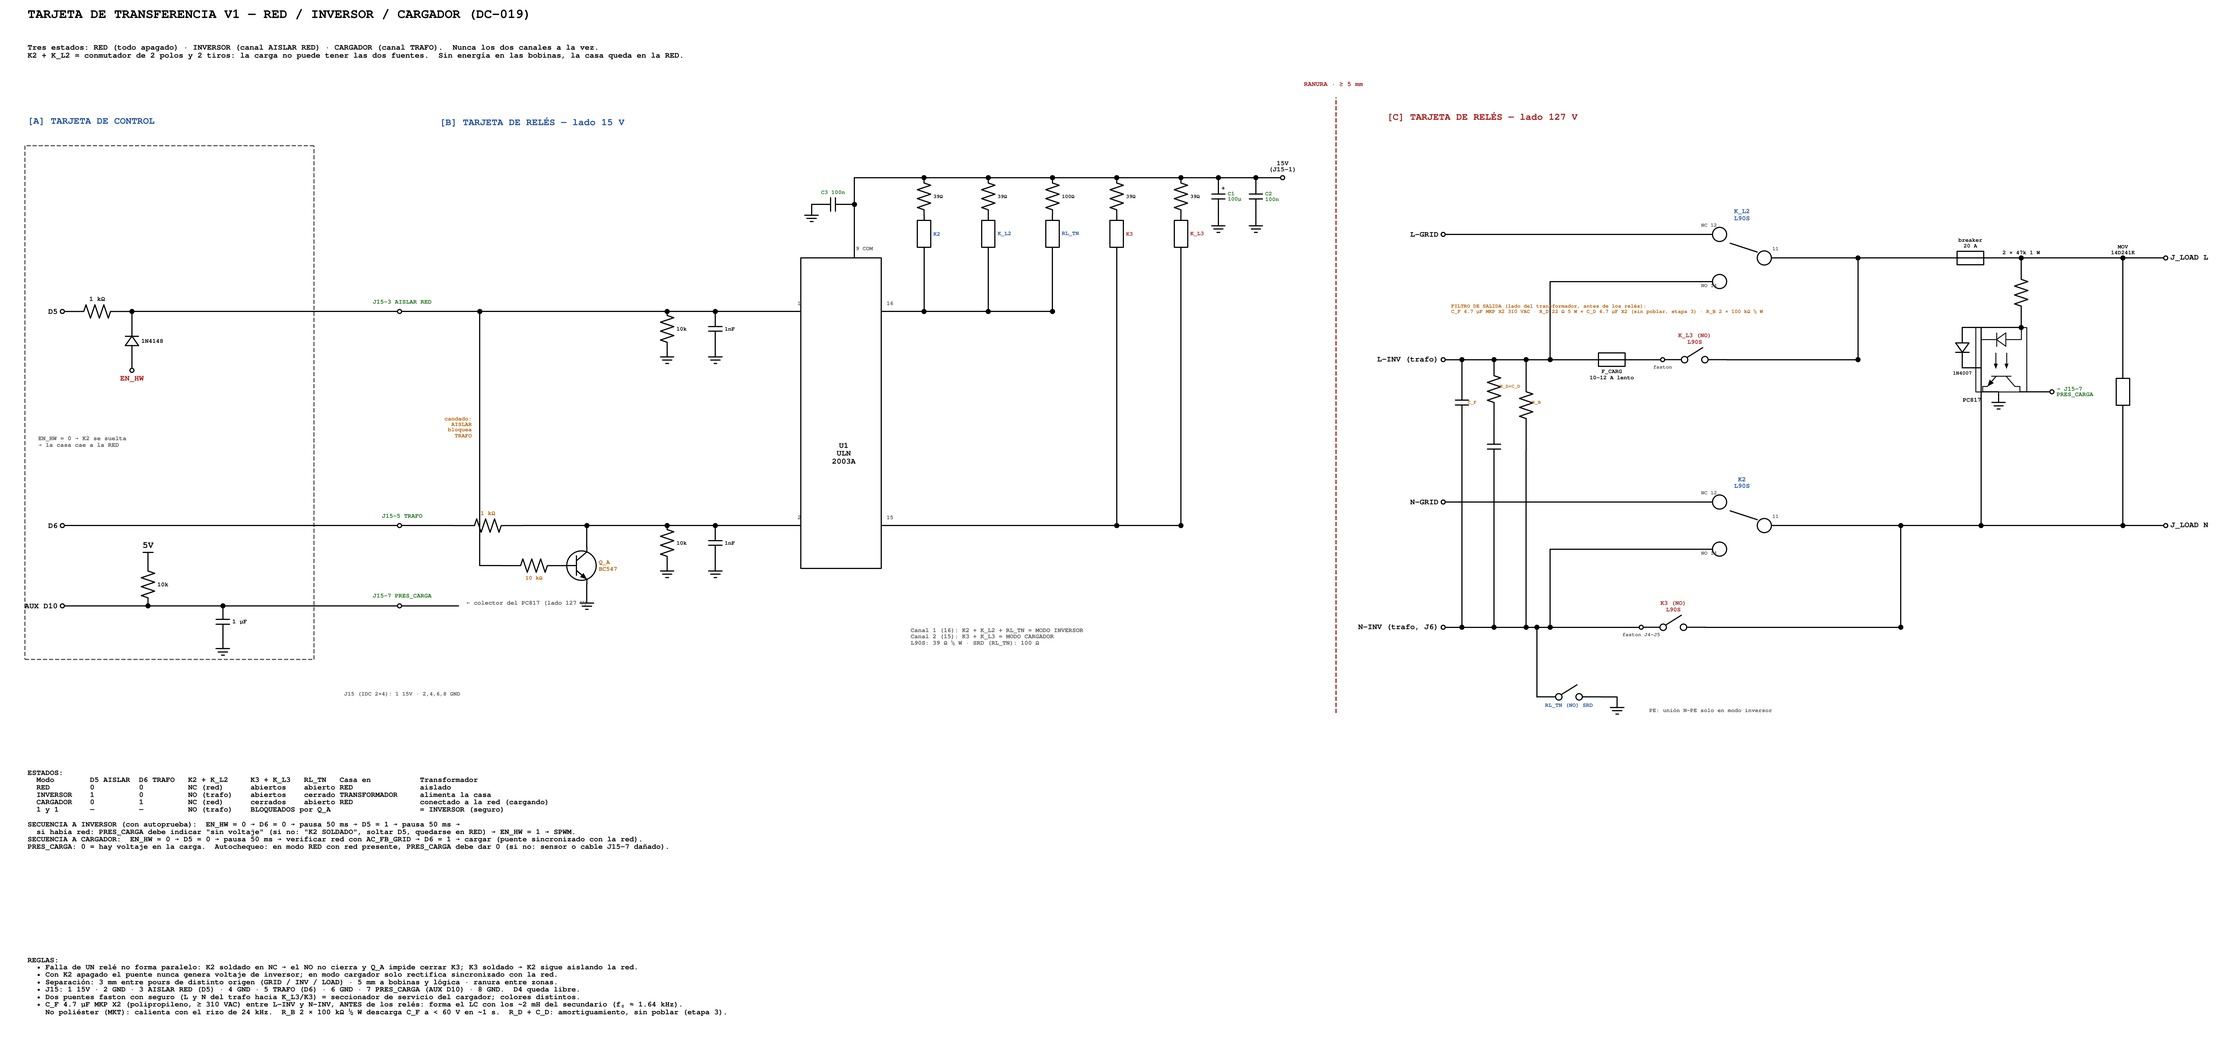
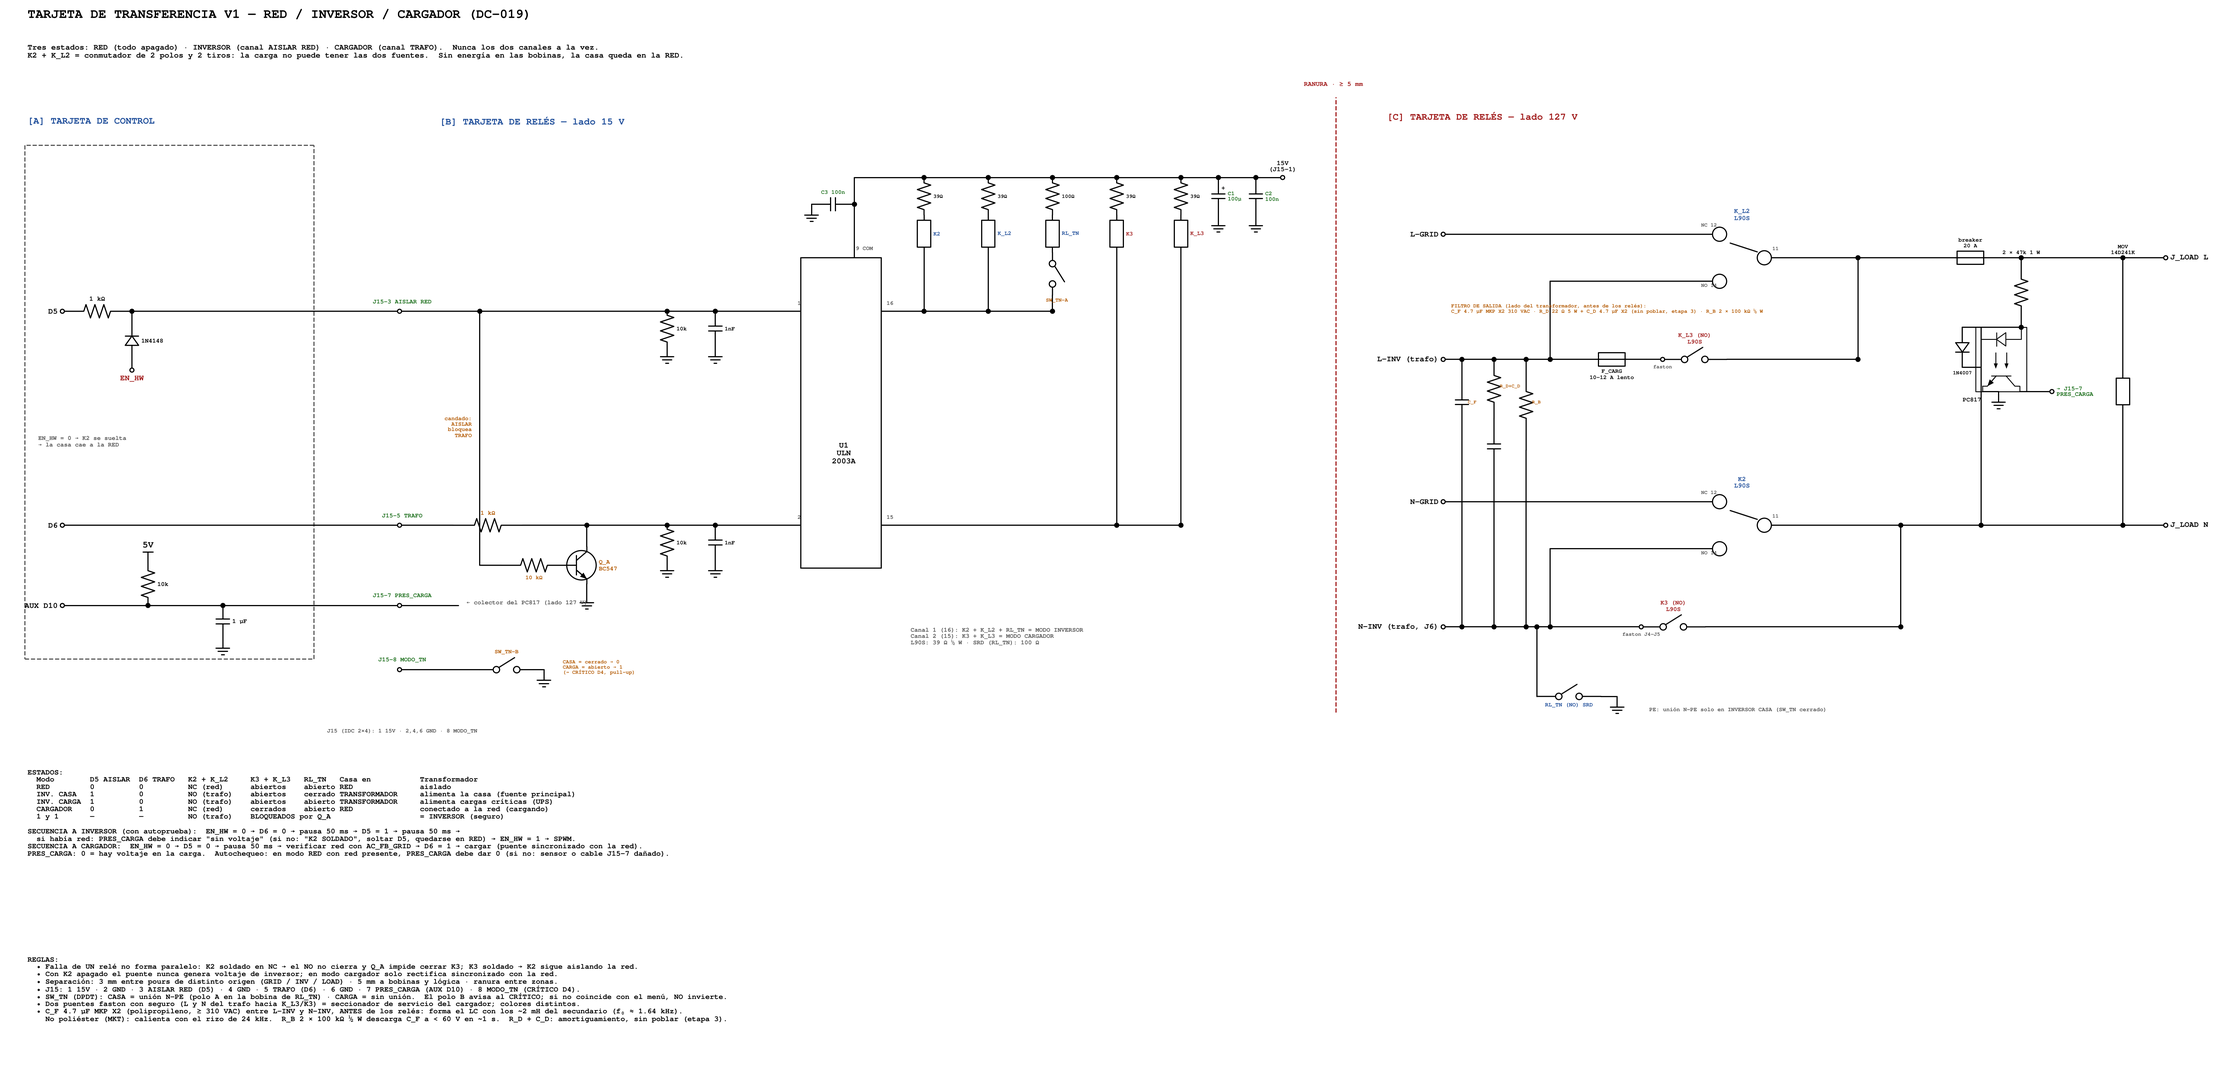
DC-019: modos INVERSOR CASA (con unión N–PE) e INVERSOR CARGA (UPS, sin unión)
- Punto 10: selector SW_TN DPDT (polo A en la bobina de RL_TN, polo B
  MODO_TN por J15-8 al CRÍTICO D4), verificación contra el menú del SETUP,
  valor de fábrica CARGA, requisitos de instalación de cada modo.
- J15-8 pasa de GND a MODO_TN; tabla de estados, falla de RL_TN y regla
  de firmware de coincidencia.
- Diagrama de transferencia con SW_TN-A/B y J15-8.
- Estudio FX, sección 8.1 y tabla comparativa alineadas.

Claude-Session: https://claude.ai/code/session_01QeVmKMzSdVA89kmdzuChhd

diff --git a/docs/img/esquematico_transferencia_v1_dc019.py b/docs/img/esquematico_transferencia_v1_dc019.py
@@ -46,7 +46,15 @@ def build(out, dpi):
         for y, t in [(16.0, 'J15-3 AISLAR RED'), (8.0, 'J15-5 TRAFO'), (5.0, 'J15-7 PRES_CARGA')]:
             d += elm.Dot(open=True).at((2.0, y))
             d += elm.Label().at((2.0, y + 0.35)).label(t, fontsize=FP - 1, color=GREEN, valign='bottom')
-        d += elm.Label().at((2.0, 1.8)).label('J15 (IDC 2×4): 1 15V · 2,4,6,8 GND', fontsize=FP - 2, color=GRAY)
+        d += elm.Label().at((2.0, 0.4)).label('J15 (IDC 2×4): 1 15V · 2,4,6 GND · 8 MODO_TN', fontsize=FP - 2, color=GRAY)
+        # MODO_TN sense: SW_TN pole B
+        d += elm.Dot(open=True).at((2.0, 2.6))
+        d += elm.Label().at((2.0, 2.95)).label('J15-8 MODO_TN', fontsize=FP - 1, color=GREEN, valign='bottom')
+        d += elm.Line().at((2.0, 2.6)).tox(5.0)
+        d += elm.Switch().right(2.0).label('SW_TN-B', loc='top', fontsize=FP - 2, color=ORG)
+        d += elm.Line().right(0.4)
+        d += elm.Ground()
+        d += elm.Label().at((8.0, 2.6)).label('CASA = cerrado → 0\nCARGA = abierto → 1\n(→ CRÍTICO D4, pull-up)', loc='right', fontsize=FP - 3, halign='left', color=ORG)
 
         # ================= RELAY BOARD LOGIC =================
         d += elm.Label().at((3.4, 23.0)).label('[B] TARJETA DE RELÉS — lado 15 V', loc='right', fontsize=22, halign='left', color=BLUE)
@@ -115,6 +123,8 @@ def build(out, dpi):
             d += elm.Dot().at((x, RAIL))
             d += elm.Resistor().at((x, RAIL)).down(1.4).label(r, loc='bottom', fontsize=FP - 3)
             d += elm.RBox(w=0.7, h=0.45).down(1.4).label(name, loc='bottom', fontsize=FP - 2, color=BLUE if yb == 16.0 else RED)
+            if name == 'RL_TN':
+                d += elm.Switch().down(1.6).label('SW_TN-A', loc='left', fontsize=FP - 3, color=ORG)
             d += elm.Line().toy(yb)
             d += elm.Dot().at((x, yb))
         d += elm.Label().at((21.0, 3.6)).label('Canal 1 (16): K2 + K_L2 + RL_TN = MODO INVERSOR\nCanal 2 (15): K3 + K_L3 = MODO CARGADOR\nL90S: 39 Ω ½ W · SRD (RL_TN): 100 Ω',
@@ -225,7 +235,7 @@ def build(out, dpi):
         d += elm.Switch().right(2.4).label('RL_TN (NO) SRD', loc='bottom', fontsize=FP - 2, color=BLUE)
         d += elm.Line().right(0.6)
         d += elm.Ground()
-        d += elm.Label().at((X0 + 7.6, 1.0)).label('PE: unión N–PE solo en modo inversor', loc='right', fontsize=FP - 2, halign='left', color=GRAY)
+        d += elm.Label().at((X0 + 7.6, 1.0)).label('PE: unión N–PE solo en INVERSOR CASA (SW_TN cerrado)', loc='right', fontsize=FP - 2, halign='left', color=GRAY)
 
         # ================= TABLE / NOTES =================
         TY = -1.2
@@ -233,7 +243,8 @@ def build(out, dpi):
             'ESTADOS:\n'
             '  Modo        D5 AISLAR  D6 TRAFO   K2 + K_L2     K3 + K_L3   RL_TN   Casa en           Transformador\n'
             '  RED         0          0          NC (red)      abiertos    abierto RED               aislado\n'
-            '  INVERSOR    1          0          NO (trafo)    abiertos    cerrado TRANSFORMADOR     alimenta la casa\n'
+            '  INV. CASA   1          0          NO (trafo)    abiertos    cerrado TRANSFORMADOR     alimenta la casa (fuente principal)\n'
+            '  INV. CARGA  1          0          NO (trafo)    abiertos    abierto TRANSFORMADOR     alimenta cargas críticas (UPS)\n'
             '  CARGADOR    0          1          NC (red)      cerrados    abierto RED               conectado a la red (cargando)\n'
             '  1 y 1       —          —          NO (trafo)    BLOQUEADOS por Q_A                    = INVERSOR (seguro)\n'
             '\n'
@@ -247,7 +258,8 @@ def build(out, dpi):
             '  • Falla de UN relé no forma paralelo: K2 soldado en NC → el NO no cierra y Q_A impide cerrar K3; K3 soldado → K2 sigue aislando la red.\n'
             '  • Con K2 apagado el puente nunca genera voltaje de inversor; en modo cargador solo rectifica sincronizado con la red.\n'
             '  • Separación: 3 mm entre pours de distinto origen (GRID / INV / LOAD) · 5 mm a bobinas y lógica · ranura entre zonas.\n'
-            '  • J15: 1 15V · 2 GND · 3 AISLAR RED (D5) · 4 GND · 5 TRAFO (D6) · 6 GND · 7 PRES_CARGA (AUX D10) · 8 GND.  D4 queda libre.\n'
+            '  • J15: 1 15V · 2 GND · 3 AISLAR RED (D5) · 4 GND · 5 TRAFO (D6) · 6 GND · 7 PRES_CARGA (AUX D10) · 8 MODO_TN (CRÍTICO D4).\n'
+            '  • SW_TN (DPDT): CASA = unión N–PE (polo A en la bobina de RL_TN) · CARGA = sin unión.  El polo B avisa al CRÍTICO; si no coincide con el menú, NO invierte.\n'
             '  • Dos puentes faston con seguro (L y N del trafo hacia K_L3/K3) = seccionador de servicio del cargador; colores distintos.\n'
             '  • C_F 4.7 µF MKP X2 (polipropileno, ≥ 310 VAC) entre L-INV y N-INV, ANTES de los relés: forma el LC con los ~2 mH del secundario (f₀ ≈ 1.64 kHz).\n'
             '    No poliéster (MKT): calienta con el rizo de 24 kHz.  R_B 2 × 100 kΩ ½ W descarga C_F a < 60 V en ~1 s.  R_D + C_D: amortiguamiento, sin poblar (etapa 3).',

diff --git a/docs/decisiones_criticas.md b/docs/decisiones_criticas.md
@@ -1002,7 +1002,8 @@ Los relés de transferencia van en **su propia tarjeta**: los 127 V quedan fuera
 | Modo | AISLAR | TRAFO | Casa en | Transformador |
 | --- | --- | --- | --- | --- |
 | **Red** (Nano apagado, en reset, cable suelto) | 0 | 0 | Red | Aislado |
-| **Inversor** | 1 | 0 | Transformador (N unido a PE por RL_TN) | Alimenta la casa |
+| **Inversor CASA** (fuente principal) | 1 | 0 | Transformador, **N unido a PE** por RL_TN | Alimenta la casa |
+| **Inversor CARGA** (UPS de cargas críticas) | 1 | 0 | Transformador, **sin unión N–PE** (RL_TN bloqueado por SW_TN) | Alimenta las cargas críticas |
 | **Cargador** | 0 | 1 | Red | Conectado a la red (a través del nodo de la carga) |
 
 4. **Candado por hardware (un BC547, Q_A):** la orden AISLAR jala a 0 V la entrada del canal TRAFO (base con 10 kΩ desde la orden cruda; 1 kΩ en serie en el canal TRAFO). Si llegan las dos órdenes, solo queda AISLAR = inversor.
@@ -1015,7 +1016,30 @@ Los relés de transferencia van en **su propia tarjeta**: los 127 V quedan fuera
    - **R_B 2 × 100 kΩ ½ W en paralelo:** descarga C_F a menos de 60 V en ~1 s (τ = 200 kΩ × 4.7 µF ≈ 0.94 s) después de apagar; disipa ~0.08 W.
    - **R_D 22 Ω 5 W + C_D 4.7 µF X2, sin poblar:** red de amortiguamiento para la etapa 3 (pico de los armónicos 27° y 29°).
    - En modo cargador, C_F queda conectado a la red por K3/K_L3: ~0.22 A reactivos a 127 V / 60 Hz, sin problema para los relés.
-9. **J15:** 1 15V · 2 GND · 3 AISLAR RED (D5) · 4 GND · 5 TRAFO (D6) · 6 GND · 7 PRES_CARGA (AUX D10) · 8 GND. **D4 queda libre.** C1 100 µF + C2 100 nF en la entrada de 15 V; C3 100 nF en COM; 10 kΩ y 1 nF en cada entrada del ULN2003.
+9. **J15:** 1 15V · 2 GND · 3 AISLAR RED (D5) · 4 GND · 5 TRAFO (D6) · 6 GND · 7 PRES_CARGA (AUX D10) · 8 **MODO_TN (CRÍTICO D4)**. C1 100 µF + C2 100 nF en la entrada de 15 V; C3 100 nF en COM; 10 kΩ y 1 nF en cada entrada del ULN2003.
+
+10. **Dos modos de inversor: CASA (con unión N–PE) y CARGA (sin unión N–PE).** Se eligen en el SETUP por menú **y** con un selector físico; los dos tienen que coincidir.
+
+| Modo (menú del SETUP) | Uso | Unión N–PE al invertir | SW_TN | Prioridad de energía |
+| --- | --- | --- | --- | --- |
+| **INVERSOR CASA** | **Fuente principal** de la casa o del sitio aislado; alimenta un tablero de cargas | **Sí.** RL_TN une N–PE (sistema derivado separadamente, NOM 250-30) | **CASA** (cerrado) | Inversor y batería primero; la red o la planta como respaldo y para cargar |
+| **INVERSOR CARGA** | **UPS de cargas críticas**, derivado de un circuito de la red | **No.** La salida queda flotante respecto a PE; la tierra de los equipos pasa directa (PE IN = PE OUT) | **CARGA** (abierto) | Red primero; el inversor solo entra cuando la red falla |
+
+   - **SW_TN:** selector deslizable **DPDT** en la tarjeta de relés, lado 15 V (no toca 127 V).
+     - **Polo A:** en serie con la bobina de RL_TN. En CARGA, RL_TN no puede cerrar aunque el canal AISLAR esté activo.
+     - **Polo B:** lleva **MODO_TN** por J15-8 al **CRÍTICO D4** (pull-up de 10 kΩ y 1 nF): CASA = 0, CARGA = 1.
+   - **Regla de coincidencia:** el CRÍTICO compara MODO_TN con el modo del menú (que le pasa el AUX por I2C) **antes de cada arranque del inversor**. Si no coinciden, **no invierte**, se queda en la red y muestra "CONFIG N–PE NO COINCIDE". Un cable J15 suelto lee 1 (CARGA): si el menú dice CASA, también bloquea.
+   - **El software no puede cambiar la unión:** solo la verifica. Cambiar de modo exige mover el selector físico **y** confirmar dos veces en el menú, con el inversor en espera; el cambio queda en el registro de eventos.
+   - **Valor de fábrica:** menú en **INVERSOR CARGA**, SW_TN en **CARGA**; también es el modo al que vuelve el menú si la EEPROM falla (CRC).
+   - **Requisitos de instalación del modo CARGA:**
+     - solo para cargas conectadas **aguas abajo del equipo** (contactos o circuitos dedicados), **nunca un tablero con su propia unión N–PE**;
+     - la PE de los equipos debe llegar desde la PE de la casa (borne PE IN);
+     - es la práctica de los UPS enchufables: verificar contra IEC 62040-1 / UL 1778 antes de certificar;
+     - con la salida flotante, una primera falla a chasis **no dispara** ninguna protección y no se detecta hasta tener el monitor de aislamiento de la V2 (DC-015).
+   - **Requisitos de instalación del modo CASA:**
+     - electrodo de puesta a tierra (250-50 / 250-52) en sitio aislado;
+     - **ninguna otra unión N–PE aguas abajo** (tableros, planta).
+     - Con red conectada no se forma doble unión: K2 abre el neutro de la red antes de que RL_TN cierre, y en modo RED la unión es solo la de la acometida.
 
 **Análisis de falla de un solo relé**
 
@@ -1025,6 +1049,7 @@ Los relés de transferencia van en **su propia tarjeta**: los 127 V quedan fuera
 | K2 soldado en NO | La casa queda en el transformador; la red no entra. Sin paralelo |
 | K3 soldado cerrado | En inversor, K2 sigue aislando la red. En modo red, el transformador queda en la red con el puente apagado: el pico del secundario (~180 V / 4.16 ≈ 43 V) es menor que la batería, los diodos del puente no conducen |
 | Bobinas sin energía (Nano, cable, 15 V) | Todo a la red |
+| RL_TN no cierra (bobina, contacto o SW_TN) en modo CASA | Salida sin unión N–PE (queda como en modo CARGA): una falla a chasis no dispara. Se detectará con el monitor de aislamiento de la V2 (DC-015); mientras tanto, prueba de continuidad N–PE en el arranque del sitio |
 
 **Reglas de firmware (obligatorias)**
 
@@ -1032,6 +1057,7 @@ Los relés de transferencia van en **su propia tarjeta**: los 127 V quedan fuera
 - **A cargador:** EN_HW = 0 → AISLAR = 0 → pausa 50 ms → verificar red con AC_FB_GRID → TRAFO = 1 → el puente solo rectifica, sincronizado con la red.
 - **Con AISLAR = 0, el puente nunca genera voltaje de inversor.**
 - **Si el inversor se detiene, se sueltan los dos canales** (además del diodo de EN_HW).
+- **Antes de cada arranque del inversor:** MODO_TN (D4) debe coincidir con el modo del menú (CASA = 0, CARGA = 1); si no, no invertir y alarma "CONFIG N–PE NO COINCIDE".
 - **Autochequeo del sensor:** en modo red con red presente, PRES_CARGA debe indicar voltaje; si no, sensor o cable J15-7 dañado.
 
 **Reglas de PCB**
@@ -1051,7 +1077,7 @@ Los relés de transferencia van en **su propia tarjeta**: los 127 V quedan fuera
 - ⚠ No es un inversor de inyección: no aplica IEC 62109-2 / VDE 0126 tal cual. La instalación en una casa debe cumplir la **NOM-001-SEDE** y la revisa un electricista o una unidad de verificación.
 - **Reemplaza** la asignación anterior de J15 (K1_D4_L1, K2_D5_N, K3_D6_TN).
 
-**Anexo: referencia industrial (OutBack FX, 2026-11-09).** Se midió en banco la tarjeta de AC de un OutBack FX de 120 V: **neutro común** (IN = OUT = XFMR NEU, ningún relé lo abre), **tierra de chasis pasante** (2 bornes PE) y **sin unión N–PE interna**: la unión la decide y la hace el instalador, una sola vez (NOM-001-SEDE-2012 250-24 / 250-30). Como el FX no conmuta el neutro, no es un sistema derivado separadamente y no necesita RL_TN. La V1 sí conmuta el neutro (K2), así que en modo inversor **sí** es sistema derivado separadamente y RL_TN se queda. El FX también valida C_F ≈ 5 µF en el transformador (C1 505J 400 V). Estudio completo, fotos, mediciones y guía de los 4 casos de instalación: [`referencia_outback_fx.md`](referencia_outback_fx.md). **No cambia la V1**; es la base de la versión de bajo costo (relé 3PDT con clasificación HP, neutro sólido, puente J_TN).
+**Anexo: referencia industrial (OutBack FX, 2026-11-09).** Se midió en banco la tarjeta de AC de un OutBack FX de 120 V: **neutro común** (IN = OUT = XFMR NEU, ningún relé lo abre), **tierra de chasis pasante** (2 bornes PE) y **sin unión N–PE interna**: la unión la decide y la hace el instalador, una sola vez (NOM-001-SEDE-2012 250-24 / 250-30). Como el FX no conmuta el neutro, no es un sistema derivado separadamente y no necesita RL_TN. La V1 sí conmuta el neutro (K2), así que en modo inversor **sí** es sistema derivado separadamente: en **INVERSOR CASA** RL_TN hace la unión; en **INVERSOR CARGA** (UPS de cargas críticas) SW_TN la bloquea (punto 10). El FX también valida C_F ≈ 5 µF en el transformador (C1 505J 400 V). Estudio completo, fotos, mediciones y guía de los 4 casos de instalación: [`referencia_outback_fx.md`](referencia_outback_fx.md). **No cambia la V1**; es la base de la versión de bajo costo (relé 3PDT con clasificación HP, neutro sólido, puente J_TN).
 
 **Referencias:** [22], [23], [24], [25].
 

diff --git a/docs/referencia_outback_fx.md b/docs/referencia_outback_fx.md
@@ -138,16 +138,16 @@ La NOM-001-SEDE-2012 [R2] (misma numeración que el NEC):
 | --- | --- | --- |
 | Relés de potencia | 1 (3PDT, polos en paralelo, por confirmar) | 5 (K2, K_L2, K3, K_L3, RL_TN) |
 | Neutro | Común, nunca se abre | Conmutado (K2/K3) |
-| Unión N–PE | Manual, la hace el instalador | **Automática** (RL_TN, solo en modo inversor) |
+| Unión N–PE | Manual, la hace el instalador, sin verificación | **Según el modo:** INVERSOR CASA = RL_TN une · INVERSOR CARGA = sin unión; selector SW_TN verificado contra el menú |
 | Estado sin energía | ❓ Salida del lado del inversor (por medir, M7) | **Carga en la RED** (fail-safe) |
 | Transformador | Siempre en la salida | Lo conecta K3/K_L3 solo para cargar |
 | Si se pega un relé | La red queda unida al inversor: el firmware debe detectarlo (anti-isla) | Ninguna falla de un solo relé forma paralelo red–inversor |
 | Filtro de salida | C1 5 µF en el transformador + toroide en el neutro | C_F 4.7 µF MKP X2 en el transformador, antes de los relés |
 | Bornes | Weidmüller 10 mm², vivos en los extremos | Phoenix SPT 2.5 |
-| Exige al instalador | Saber de puesta a tierra (250-24 / 250-30) | Nada sobre la unión N–PE: el equipo la resuelve |
+| Exige al instalador | Saber de puesta a tierra (250-24 / 250-30) | Elegir CASA o CARGA (menú + selector); el equipo bloquea si no coinciden |
 | Modo de uso (respaldo o principal) | Lo define la instalación y la unión que haga el instalador | **Se elige en el SETUP por menú:** DERIVADOR TIPO UPS o FUENTE PRINCIPAL (sección 8.1) |
 
-**Lectura:** el FX es más simple y barato en relés, pero **traslada la responsabilidad** de la unión N–PE al instalador y la de la sincronía y el anti-isla al firmware. La V1 gasta más relés para que **un trinchero sin formación en puesta a tierra** no pueda equivocarse. Las dos son válidas; están pensadas para usuarios distintos.
+**Lectura:** el FX es más simple y barato en relés, pero **traslada la responsabilidad** de la unión N–PE al instalador y la de la sincronía y el anti-isla al firmware. La V1 gasta más relés y un selector verificado contra el menú para que **un error del instalador no pase sin ser detectado**: si la unión elegida no coincide con el modo, el equipo no arranca. Las dos son válidas; están pensadas para usuarios distintos.
 
 ### 8.1 Modo de operación de la V1: se configura en el SETUP, por menú
 
@@ -165,13 +165,18 @@ El FX deja al instalador decidir **cómo** se usa el equipo. En la V1 esa decisi
 3. **Cambiar el modo exige confirmar dos veces** en el SETUP y solo se permite con el inversor **en espera** (sin invertir). El cambio queda en el registro de eventos.
 4. **El modo cambia la POLÍTICA de transferencia, NO la seguridad.** El candado Q_A, la secuencia EN_HW = 0 → soltar → pausa ≥ 50 ms → activar (DC-016/DC-019) y el valor por defecto en RED sin energía son iguales en los dos modos.
 
-**La unión N–PE en la V1 no depende del modo:**
+**La unión N–PE en la V1 sigue al modo, con doble confirmación (DC-019, punto 10):**
 
-- Como la V1 **conmuta el neutro** (K2), cada vez que el inversor alimenta, su salida queda **aislada** del neutro de la red: es un sistema derivado separadamente (250-30) **en los dos modos**. Por eso RL_TN une N–PE siempre que se aísla, sea UPS o principal. No se forma doble unión, porque el neutro de la acometida ya no está conectado.
-- **RL_TN comparte canal con K2 y K_L2** (AISLAR, D5). Por diseño, **el software no puede apagarlo por separado**: una falla de firmware o de menú no puede dejar la salida sin unión.
-- Si un instalador necesita **unión externa** (por ejemplo, un tablero de cargas propio que ya trae su unión), la decisión es **física**: se quita el faston con seguro **J_TN** que abre el contacto de RL_TN, y se anota en la etiqueta del equipo. **El menú puede mostrar el estado de J_TN** (si se agrega su lectura), pero no lo cambia.
+| Modo del menú | Equivale a | Unión N–PE al invertir | Selector físico SW_TN |
+| --- | --- | --- | --- |
+| **INVERSOR CASA** | Fuente principal (opción 2) | **Sí**, la hace RL_TN | CASA |
+| **INVERSOR CARGA** | Derivador tipo UPS de cargas críticas (opción 1) | **No**, la salida queda flotante y la PE pasa directa | CARGA |
 
-**Diferencia con el FX:** en el FX, el modo de uso (respaldo o principal) **obliga** al instalador a decidir la unión N–PE (sección 7). En la V1, el menú solo decide **la prioridad de la energía**, y la unión la resuelve el hardware.
+- El menú **declara** el modo y el selector SW_TN **hace** la unión. Su polo A está en la bobina de RL_TN; su polo B le avisa al CRÍTICO por J15-8 (MODO_TN, D4).
+- **Si el menú y el selector no coinciden, la V1 no invierte** y muestra "CONFIG N–PE NO COINCIDE". Así, ni un error de menú ni uno de firmware pueden dejar la unión mal hecha.
+- El valor de fábrica es CARGA/UPS en los dos.
+
+**Diferencia con el FX:** en el FX el instalador hace la unión con cables, y nada la verifica. En la V1 el instalador también decide, pero con un selector en la tarjeta, y el equipo **se niega a arrancar** si esa decisión contradice el menú.
 
 ---
 
